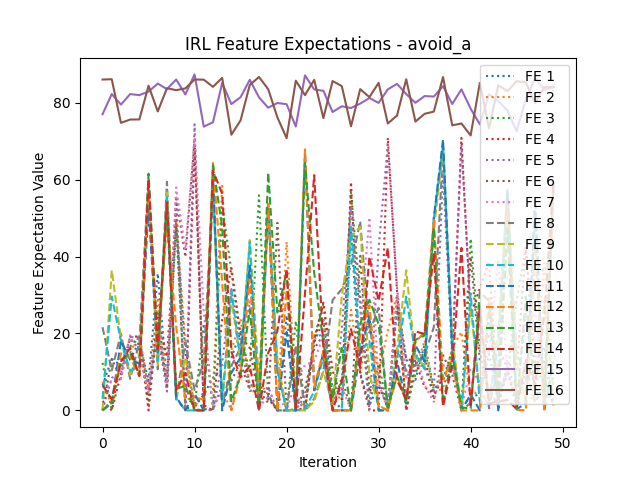
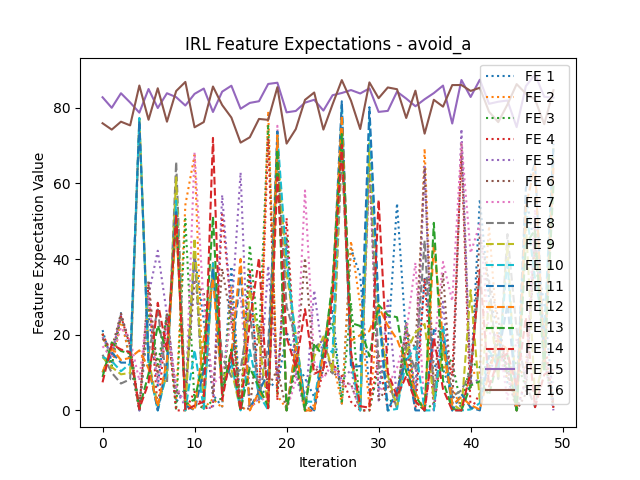
new results

diff --git a/ex_1.py b/ex_1.py
@@ -5,10 +5,10 @@ from irl import *
 
 # Change the following parameters as preferred:
 training_policies = [
-    'avoid_o',
-    'avoid_p',
-    'avoid_a',
-    'random'
+    #'avoid_o',
+    #'avoid_p',
+    'avoid_a'#,
+    #'random'
 ]
 
 n_traj = 20
